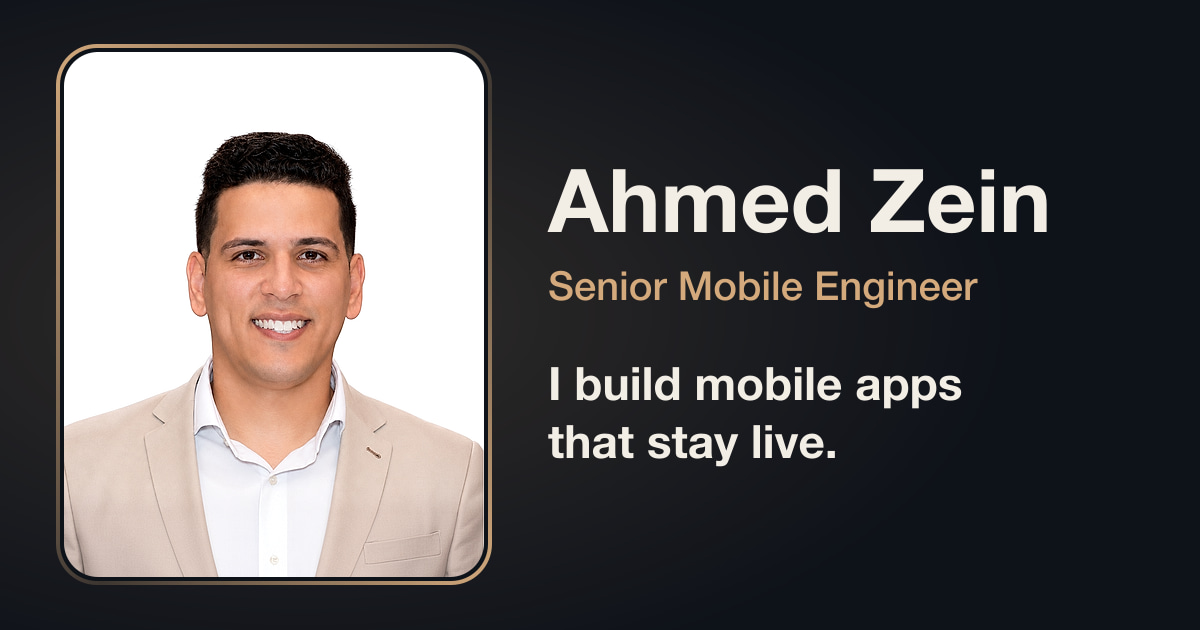
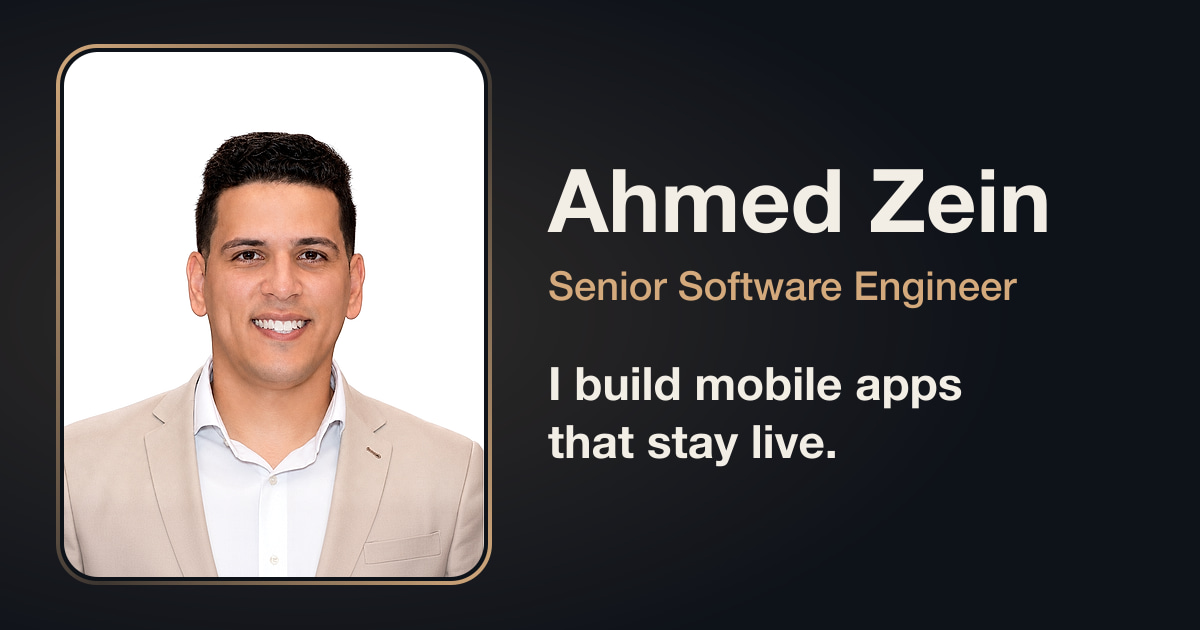
Headline title: Senior Software Engineer, as on the CV
Under the name, in the page title and description, the structured data,
the web manifest and the home page's link preview card (rebuilt from the
same photo; the hero photo and icons came out unchanged). Arabic to match.

Changed region(s): [[0.555, 0.4222, 0.8633, 0.4825]]

diff --git a/src/data/ar.ts b/src/data/ar.ts
@@ -8,7 +8,7 @@ export const ar = {
   profile: {
     name: 'أحمد زين',
     fullName: 'أحمد زين العابدين',
-    title: 'Senior Mobile Engineer',
+    title: 'Senior Software Engineer',
     location: 'أبوظبي',
     availability: {
       long: 'متاح لوظائف بدوام كامل ولأعمال حرة',
@@ -18,7 +18,7 @@ export const ar = {
     intro:
       'تتبّع لحظي، وتشغيل في الخلفية، وLive Activities على iOS، ومدفوعات إلكترونية، ورصد الأعطال، في تطبيقات منشورة: Taggo وTaggo Captain وThe Events. ومؤلف ثلاث حزم Flutter مفتوحة المصدر.',
     description:
-      'أحمد زين، Senior Mobile Engineer في أبوظبي. تتبّع لحظي وتشغيل في الخلفية وLive Activities على iOS ومدفوعات، في تطبيقات Flutter منشورة على متاجر الإمارات.',
+      'أحمد زين، Senior Software Engineer في أبوظبي. تتبّع لحظي وتشغيل في الخلفية وLive Activities على iOS ومدفوعات، في تطبيقات Flutter منشورة على متاجر الإمارات.',
     now: [
       { label: 'الآن', value: 'Senior\u00a0Software\u00a0Engineer في Kief، أبوظبي' },
       // Non-breaking spaces (\u00a0) keep each product name on one line when the row wraps.

diff --git a/src/data/site.ts b/src/data/site.ts
@@ -29,7 +29,7 @@ import sparkCard from '../assets/cards/spark-fitness.jpg';
 export const profile = {
   name: 'Ahmed Zein',
   fullName: 'Ahmed Zein Elabedin',
-  title: 'Senior Mobile Engineer',
+  title: 'Senior Software Engineer',
   location: 'Abu Dhabi',
   email: 'ahmed.zein1896@gmail.com',
   phone: '+971544626234',
@@ -44,7 +44,7 @@ export const profile = {
   intro:
     'Real-time tracking, background execution, iOS Live Activities, payments and crash monitoring, shipped in Taggo, Taggo Captain and The Events. Author of three Flutter packages.',
   description:
-    'Ahmed Zein, Senior Mobile Engineer in Abu Dhabi. Real-time tracking, background execution, iOS Live Activities and payments in Flutter apps live in the UAE stores.',
+    'Ahmed Zein, Senior Software Engineer in Abu Dhabi. Real-time tracking, background execution, iOS Live Activities and payments in Flutter apps live in the UAE stores.',
   now: [
     { label: 'Now', value: 'Senior Software Engineer at Kief, Abu Dhabi' },
     { label: 'Shipping', value: 'Taggo, Taggo Captain and The Events' },

diff --git a/README.md b/README.md
@@ -1,6 +1,6 @@
 # ahmedzein.dev
 
-Personal site of Ahmed Zein, Senior Mobile Engineer. Built with [Astro](https://astro.build) as a static site and deployed to GitHub Pages.
+Personal site of Ahmed Zein, Senior Software Engineer. Built with [Astro](https://astro.build) as a static site and deployed to GitHub Pages.
 
 The previous Flutter-web version of the site lives on the `flutter-legacy` branch.
 
